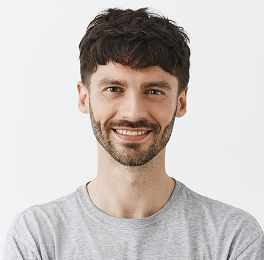
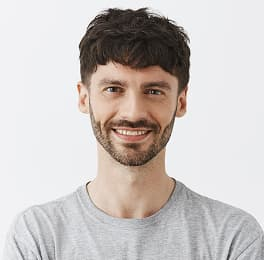
squoosh

diff --git a/index.html b/index.html
@@ -61,42 +61,22 @@
         <h2>Our Team</h2>
         <ul>
           <li>
-            <img
-              src="./images/img1.jpg"
-              alt="employee"
-              width="270"
-              height="260"
-            />
+            <img src="./images/img1.jpg" alt="employee" width="264" />
             <h3>Mark Guerrero</h3>
             <p lang="en">Product Designer</p>
           </li>
           <li>
-            <img
-              src="./images/img2.jpg"
-              alt="employee"
-              width="270"
-              height="260"
-            />
+            <img src="./images/img2.jpg" alt="employee" width="264" />
             <h3>Tom Ford</h3>
             <p lang="en">Frontend Developer</p>
           </li>
           <li>
-            <img
-              src="./images/img3.jpg"
-              alt="employee"
-              width="270"
-              height="260"
-            />
+            <img src="./images/img3.jpg" alt="employee" width="264" />
             <h3>Camila Garcia</h3>
             <p lang="en">Marketing</p>
           </li>
           <li>
-            <img
-              src="./images/img4.jpg"
-              alt="employee"
-              width="270"
-              height="260"
-            />
+            <img src="./images/img4.jpg" alt="employee" width="264" />
             <h3>Daniel Wilson</h3>
             <p lang="en">UI Designer</p>
           </li>
